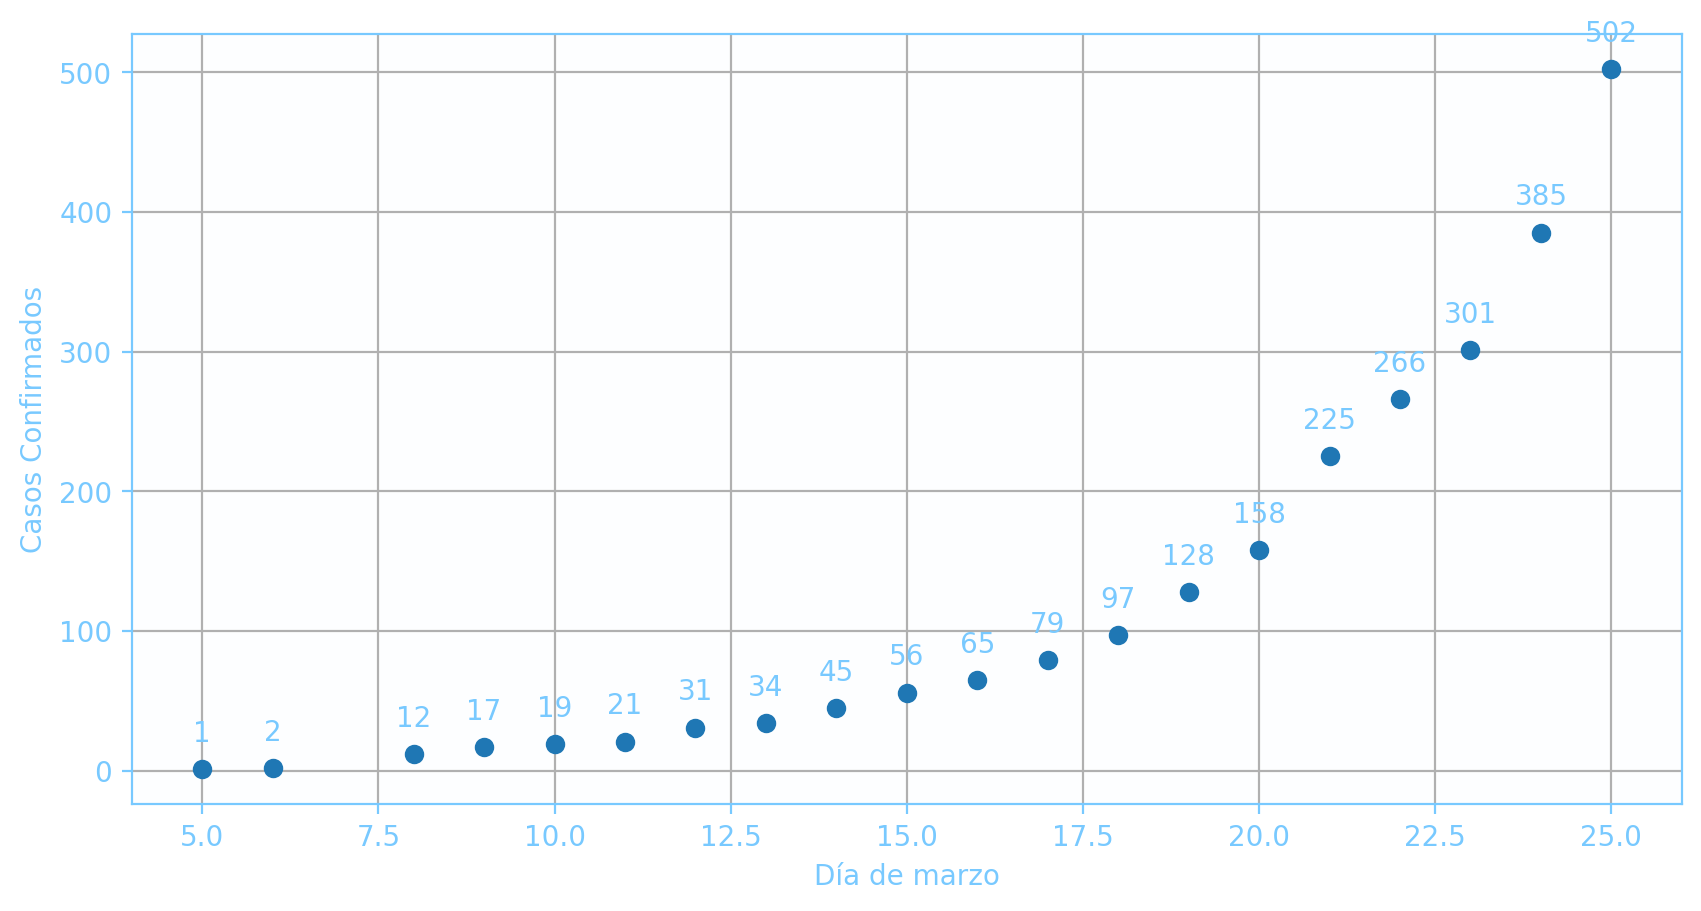
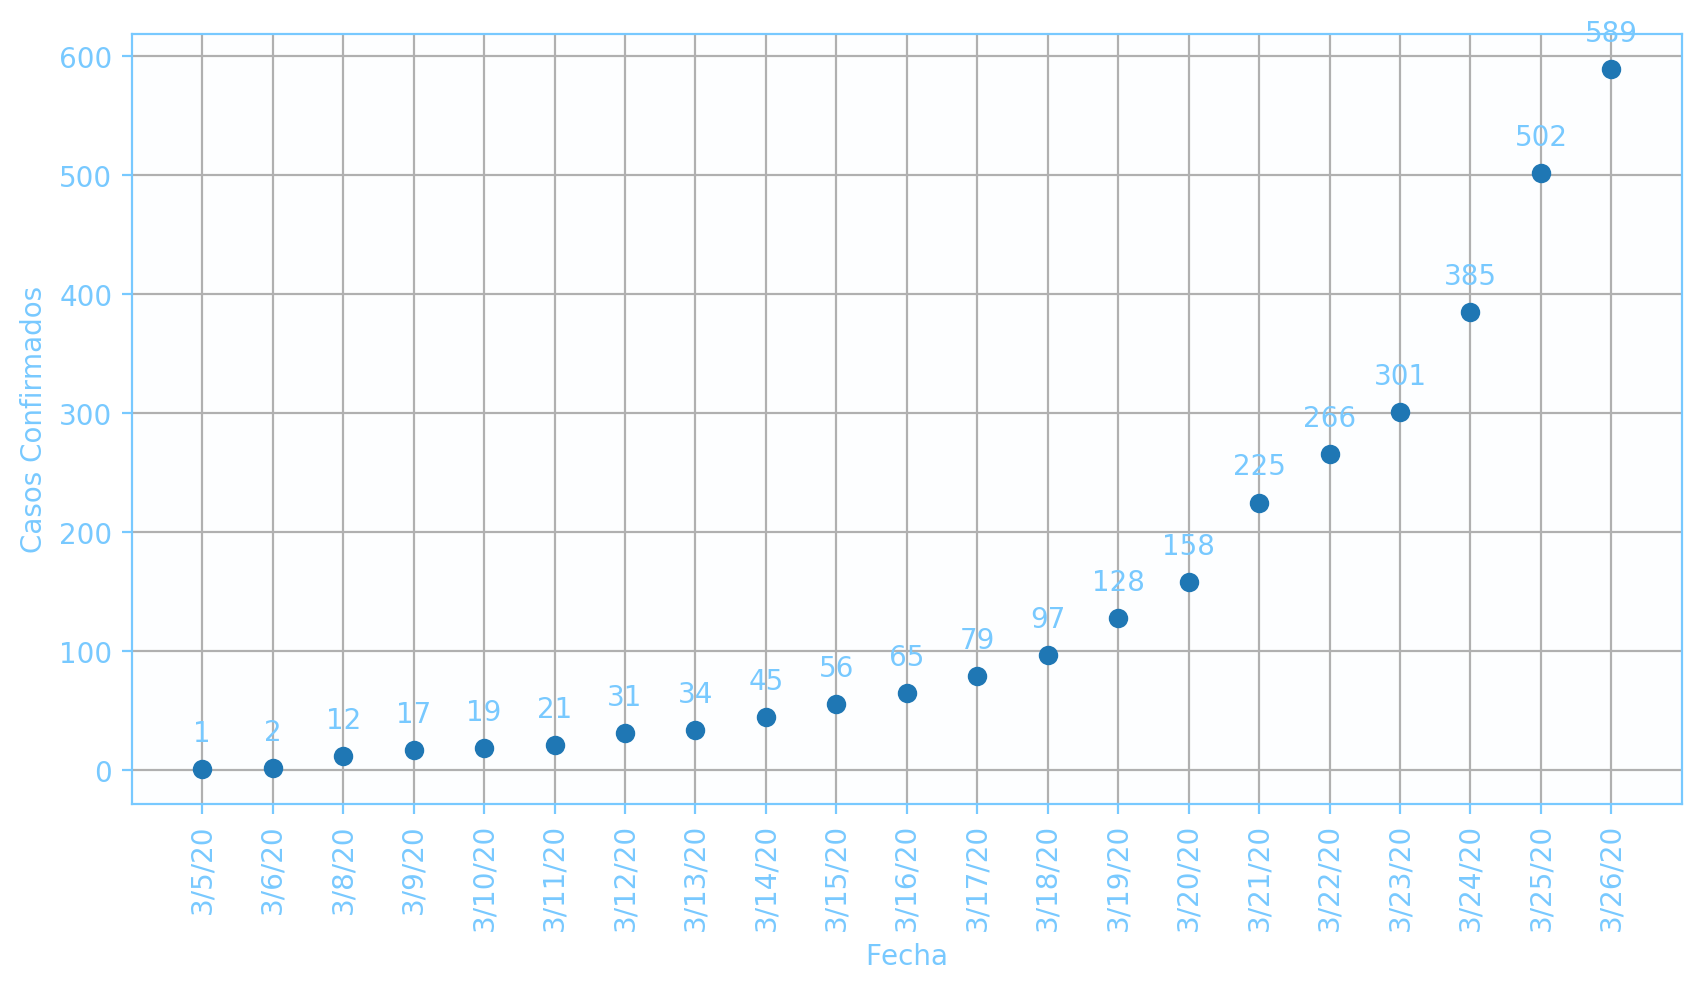
Cambio de dias a fecha
Se agrega la funcionalidad de usar una fecha en vez de un valor entero para el dia, permitiendo continuar durante abril

diff --git a/dashboard_loader.py b/dashboard_loader.py
@@ -16,46 +16,79 @@ matplotlib.use("Agg")
 
 # Conseguir la fecha actual, de mañana y de pasado mañana
 today = date.today()
-today = today.strftime("%d")
+today = today.strftime("%#m/%#d/%y")
+print(today)
 
 # # Conseguir Datos de John Hopkins University
 # url = 'https://raw.githubusercontent.com/CSSEGISandData/COVID-19/master/csse_covid_19_data/csse_covid_19_time_series/time_series_19-covid-Confirmed.csv'
 # data = pd.read_csv(url)
 
 # Ingreso manual de datos
-days = np.array(
-    [
-        5,
-        6,
-        8,
-        9,
-        10,
-        11,
-        12,
-        13,
-        14,
-        15,
-        16,
-        17,
-        18,
-        19,
-        20,
-        21,
-        22,
-        23,
-        24,
-        25,
-        26,
-        27,
-        28,
-        29,
-        30,
-        31,
-    ]
+data = pd.Series(
+	[
+		'3/5/20',
+        '3/6/20',
+        '3/8/20',
+        '3/9/20',
+        '3/10/20',
+        '3/11/20',
+        '3/12/20',
+        '3/13/20',
+        '3/14/20',
+        '3/15/20',
+        '3/16/20',
+        '3/17/20',
+        '3/18/20',
+        '3/19/20',
+        '3/20/20',
+        '3/21/20',
+        '3/22/20',
+        '3/23/20',
+        '3/24/20',
+        '3/25/20',
+        '3/26/20',
+        '3/27/20',
+        '3/28/20',
+        '3/29/20',
+        '3/30/20',
+        '3/31/20',
+	]
 )
-today_index = days.tolist().index(int(today))
 
-days = days - days[0]
+# days = np.array(
+#     [
+#         5,
+#         6,
+#         8,
+#         9,
+#         10,
+#         11,
+#         12,
+#         13,
+#         14,
+#         15,
+#         16,
+#         17,
+#         18,
+#         19,
+#         20,
+#         21,
+#         22,
+#         23,
+#         24,
+#         25,
+#         26,
+#         27,
+#         28,
+#         29,
+#         30,
+#         31,
+#     ]
+# )
+today_index = data.tolist().index(today)
+# today_index = data.str.index(today) 
+
+
 cases = np.array(
     [
         1,
@@ -78,18 +111,24 @@ cases = np.array(
         301,
         385,
         502,
+        589,
     ]
 )
 end = len(cases)
+print(data[:])
+xfechas = pd.to_datetime(data[:])
+print(xfechas)
+# dias_dt = np.array(xfechas - np.datetime64('2020-01-01'))/ np.timedelta64(1,'D')
+# print(dias_dt)
 
-popt, pcov = curve_fit(exponenial_func, days[2:end], cases[2:end])
+popt, pcov = curve_fit(exponenial_func, data.index[2:end], cases[2:end])
 a = popt[0]
 b = popt[1]
-fit = a * np.exp(days * b)
-fit_sup = (a + pcov[0, 0] ** 0.5) * np.exp(days * (b + pcov[1, 1] ** 0.5))
-fit_inf = (a - pcov[0, 0] ** 0.5) * np.exp(days * (b - pcov[1, 1] ** 0.5))
+fit = a * np.exp(data.index * b)
+fit_sup = (a + pcov[0, 0] ** 0.5) * np.exp(data.index * (b + pcov[1, 1] ** 0.5))
+fit_inf = (a - pcov[0, 0] ** 0.5) * np.exp(data.index * (b - pcov[1, 1] ** 0.5))
 
-xs = days[0:end] + 5
+xs = data.index[0:end] + 5
 ys = cases
 
 # Plot de Casos Confirmados
@@ -101,8 +140,9 @@ params = {"ytick.color" : '#78c9ff',
 plt.rcParams.update(params)
 ax = fig.add_subplot(111)
 plt.grid()
-ax.plot(xs, ys, "o")
-for x,y in zip(xs,ys):
+ax.plot(data[:end], ys, "o")
+tmp = plt.xticks(rotation='vertical')
+for x,y in zip(data[:end],ys):
     label = y
     ax.annotate(label, # this is the text
                  (x,y), # this is the point to label
@@ -110,7 +150,7 @@ for x,y in zip(xs,ys):
                  xytext=(0,10), # distance from text to points (x,y)
                  ha='center',
                  color='#78c9ff') # horizontal alignment can be left, right or center
-plt.xlabel("Día de marzo")
+plt.xlabel("Fecha")
 plt.ylabel("Casos Confirmados")
 fig.patch.set_facecolor('#78c9ff')
 fig.patch.set_alpha(0.1)
@@ -129,12 +169,12 @@ params = {"ytick.color" : '#78c9ff',
 plt.rcParams.update(params)
 ax = fig.add_subplot(111)
 # plt.yscale("Log")
-ax.plot(days[0:end] + 5, cases, "o")
-ax.plot(days + 5, fit)
-ax.plot(days + 5, fit_sup, linestyle="--")
-ax.plot(days + 5, fit_inf, linestyle="--")
-plt.fill_between(days + 5, fit_sup, fit_inf, color="gray")
-plt.xlabel("Día de marzo")
+ax.plot(data[:end], cases, "o")
+ax.plot(data, fit)
+ax.plot(data, fit_sup, linestyle="--")
+ax.plot(data, fit_inf, linestyle="--")
+plt.fill_between(data, fit_sup, fit_inf, color="gray")
+plt.xlabel("Fecha")
 plt.ylabel("N° de contagios")
 plt.legend(["Datos", "Estimación", "Cota superior", "Cota inferior"])
 # plt.xlim(5,20)
@@ -143,6 +183,7 @@ fig.patch.set_facecolor('#78c9ff')
 fig.patch.set_alpha(0.1)
 ax.patch.set_facecolor('#78c9ff')
 ax.patch.set_alpha(0.01)
+tmp = plt.xticks(rotation='vertical')
 plt.savefig("graphs/covid.png", dpi=200, bbox_inches="tight")
 # plt.show()
 
@@ -154,8 +195,7 @@ plt.savefig("graphs/covid.png", dpi=200, bbox_inches="tight")
 # # argdata = data.loc[lambda data: data['Province/State'] == 'Hubei'] # (en caso de que se trate de una provincia)
 
 
-# xfechas = pd.to_datetime(argdata[argdata.index.str.contains("/20")].index)
-# x = np.array(xfechas - np.datetime64('2020-01-01'))/ np.timedelta64(1,'D')
+
 # y = (argdata.to_numpy()[4:])[:,0].transpose()
 
 
